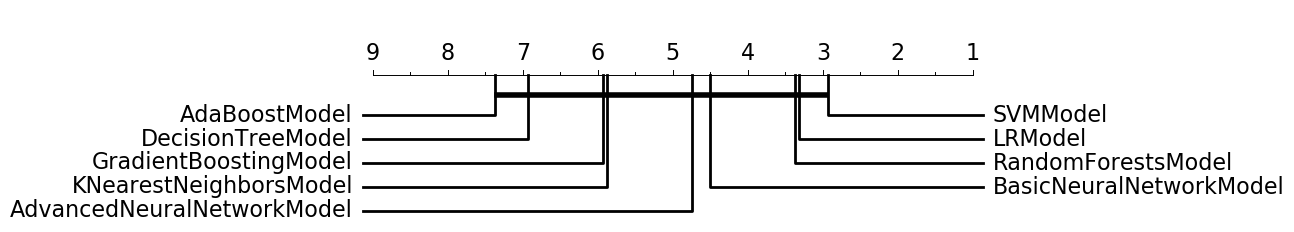
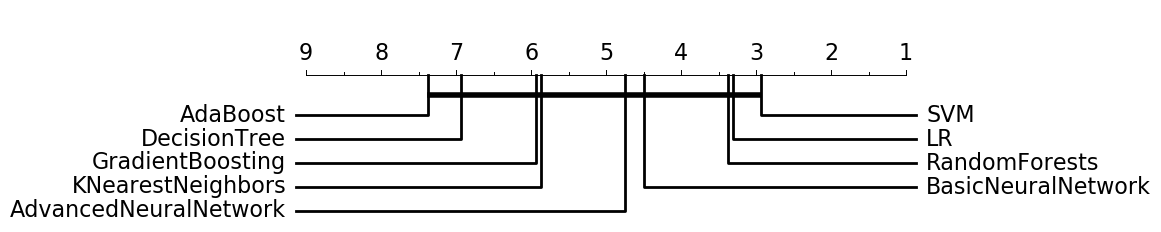
Remove Model suffix for all algorithms in the critical difference diagrams

diff --git a/utils/results.py b/utils/results.py
@@ -40,13 +40,22 @@ def split_results_by_task(results):
        else:
            return 'classifier_interpretability'
 
+    def dataset_to_metric(ds):
+        ds_class = (getattr(reg_ds, ds, None) or getattr(clf_ds, ds, None))
+        if ds_class is None: # dataset for classifier interpretability
+            return None
+        return ds_class.metric
+
     results['task'] = results['dataset'].apply(dataset_to_task)
+    results['metric'] = results['dataset'].apply(dataset_to_metric)
+
+    # Remove "Dataset" and "Model" suffixes
+    results.loc[:, 'dataset'] = results['dataset'].str[:-7]
+    results.loc[:, 'model'] = results['model'].str[:-5]
+
     clf_results = results[results['task'] == 'classification'].copy()
     reg_results = results[results['task'] == 'regression'].copy()
     clf_interpretability_results = results[results['task'] == 'classifier_interpretability'].copy()
-
-    clf_results['metric'] = clf_results['dataset'].apply(lambda ds: getattr(clf_ds, ds).metric)
-    reg_results['metric'] = reg_results['dataset'].apply(lambda ds: getattr(reg_ds, ds).metric)
 
     return clf_results, reg_results, clf_interpretability_results
 
@@ -59,13 +68,13 @@ def print_results():
     draw_cd_diagram(f'{RESULTS_DIR}/cd-diagram-classification.png', clf_results)
 
     print('\nClassification models small dataset (<10k examples) ranking')
-    big_datasets = ('DefaultCreditCardDataset', 'AdultDataset')
+    big_datasets = ('DefaultCreditCard', 'Adult')
     clf_result_small_ds = clf_results[~clf_results.dataset.isin(big_datasets)].copy()
     print(get_model_ranking(clf_result_small_ds))
     draw_cd_diagram(f'{RESULTS_DIR}/cd-diagram-classification-small-ds.png', clf_result_small_ds)
     
     print('\nClassification models big dataset (>10k examples) ranking')
-    big_datasets = ('DefaultCreditCardDataset', 'AdultDataset')
+    big_datasets = ('DefaultCreditCard', 'Adult')
     clf_result_big_ds = clf_results[clf_results.dataset.isin(big_datasets)].copy()
     print(get_model_ranking(clf_result_big_ds))
     draw_cd_diagram(f'{RESULTS_DIR}/cd-diagram-classification-big-ds.png', clf_result_big_ds)
@@ -75,13 +84,13 @@ def print_results():
     draw_cd_diagram(f'{RESULTS_DIR}/cd-diagram-regression.png', reg_results)
 
     print('\nRegression models small dataset (<5k examples) ranking')
-    big_datasets = ('MerckMolecularActivityDataset', 'BikeSharingDataset', 'SGEMMGPUKernelPerformancesDataset')
+    big_datasets = ('MerckMolecularActivity', 'BikeSharing', 'SGEMMGPUKernelPerformances')
     reg_result_small_ds = reg_results[~reg_results.dataset.isin(big_datasets)].copy()
     print(get_model_ranking(reg_result_small_ds))
     draw_cd_diagram(f'{RESULTS_DIR}/cd-diagram-regression-small-ds.png', reg_result_small_ds)
 
     print('\nRegression models big dataset (>5k examples) ranking')
-    big_datasets = ('MerckMolecularActivityDataset', 'BikeSharingDataset', 'SGEMMGPUKernelPerformancesDataset')
+    big_datasets = ('MerckMolecularActivity', 'BikeSharing', 'SGEMMGPUKernelPerformances')
     reg_result_big_ds = reg_results[reg_results.dataset.isin(big_datasets)].copy()
     print(get_model_ranking(reg_result_big_ds))
     draw_cd_diagram(f'{RESULTS_DIR}/cd-diagram-regression-big-ds.png', reg_result_big_ds)
@@ -94,8 +103,6 @@ def print_rankings(task, results):
     print(f'{task} ranking table')
     results['model_rank'] = results.groupby('dataset')['score'].rank(ascending=False)
     results = results[['dataset', 'model', 'model_rank']]
-    results.loc[:, 'dataset'] = results['dataset'].str[:-7]
-    results.loc[:, 'model'] = results['model'].str[:-5]
     table = pd.pivot_table(results, values='model_rank', index='model', columns=['dataset'])
 
     if task == 'Regression':
